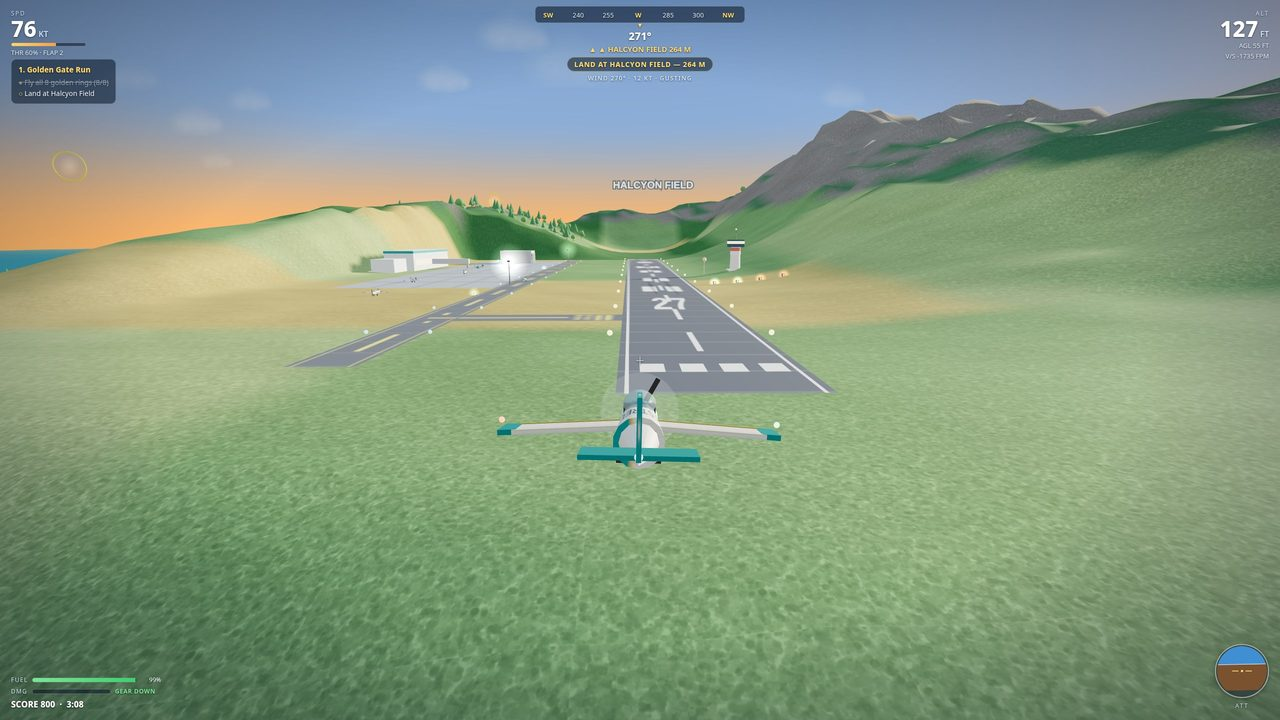
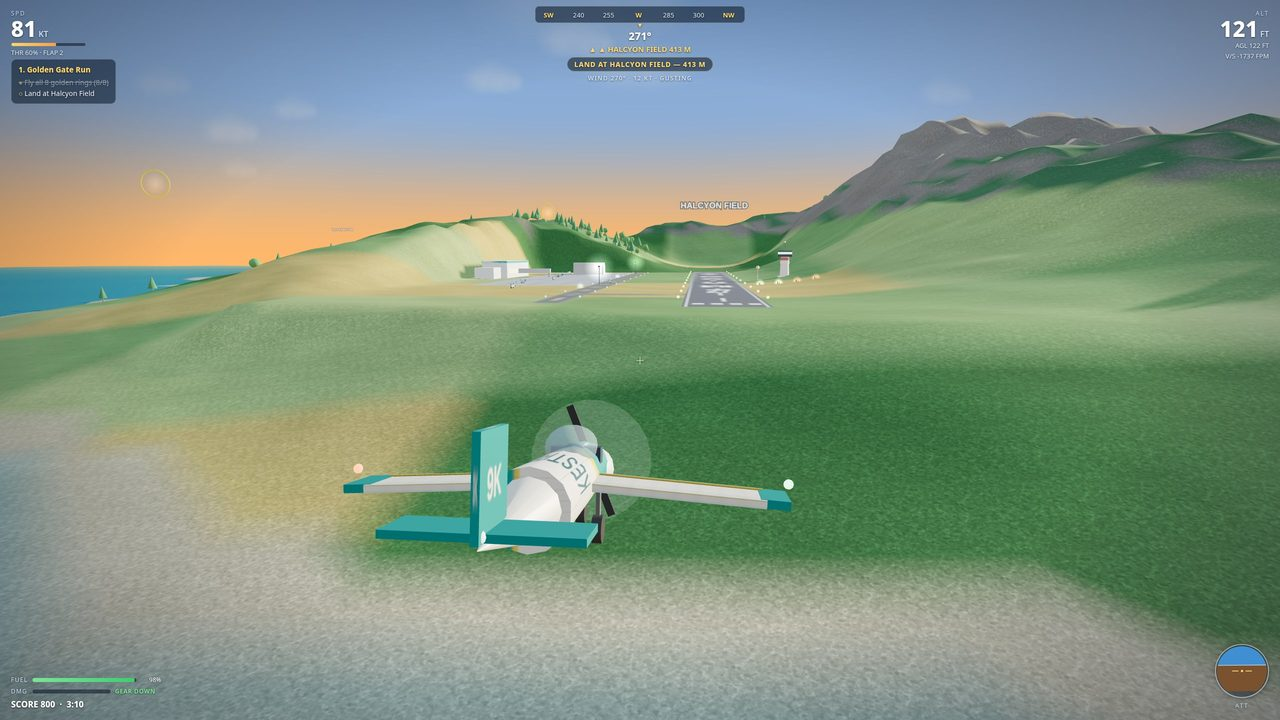
Fix v5: screenshot angles — plane reads big in every shot
- Cover: tight chase closer (17 -> 13.5 m) with more side offset (5 -> 8), look further ahead (+20 m, +2 m up) — the Kestrel reads ~30% of the frame in 3/4 view with the livery visible, less empty runway in the foreground, sun still in frame; freeze unchanged (SCORE 800, 8/8, 3:09)
- Cockpit: the in-cockpit camera showed no aircraft at all. Now a close chase from behind-above (11 m, FOV 58) in cockpit mode — nose, wings and KESTREL livery read at ~40% of the frame over the sea with ring 1 ahead, gauge strip + canopy vignette intact, prop blades still hidden + disc capped at 0.12 so the v2 glitch cannot return (0, 0/8, 0:04)
- Landing: staged further out (620 m east, 62 m up) and captured earlier (~480 m out, ~27 m AGL) with a dedicated close chase (9.5 m, FOV 52, side 2.5) — the plane goes from ~10% to ~37% of the frame with the runway, PAPI, terminal and tower still ahead. The v4 <220 m capture timed out because the Kestrel sinks onto the runway before 220 m, so the plane is made bigger with camera + FOV instead of a closer capture point (800, 8/8, 3:10)
- Complete: endcard overlay brightened (.26/.46 -> .12/.24) and the card docks to the left, so the landed Kestrel reads beside it instead of behind it; the mission checklist hides while the card is up (restored on next mission) so the two panels never overlap; landing/complete share the close chase, so the plane is big on the runway with the tower + terminal in frame (SCORE 1072, 3:17, Rings 8/8 — identical to v4)
[…]

diff --git a/game/js/game.js b/game/js/game.js
@@ -135,6 +135,7 @@
       $("endcard").classList.add("hidden");
       $("pause").classList.add("hidden");
       $("hud").classList.remove("hidden");
+      $("hud-mission").classList.remove("hidden");
       $("cockpit-frame").classList.add("hidden");
       audio.ensure();
     }
@@ -155,6 +156,10 @@
 
     function showEnd(title, detail, lines, score) {
       game.state = title.indexOf("CRASH") === 0 ? "crashed" : "complete";
+      // ANGLE FIX (v5): the end card docks to the left now, so the
+      // mission checklist (top-left) is hidden while the card is up —
+      // otherwise the two panels overlap. Restored in startMission.
+      $("hud-mission").classList.add("hidden");
       $("end-title").textContent = title;
       $("end-detail").textContent = detail;
       $("end-score").textContent = "SCORE " + score;
@@ -362,8 +367,8 @@
         game.autopilot = true;
         game.camMode = "chase";
         // snap the chase camera in behind the plane at once
-        camPos.set(f.x + 322, f.elev + 34.5, f.z + 14);
-        camLook.set(f.x + 290, f.elev + 29, f.z + 5);
+        camPos.set(f.x + 313, f.elev + 33, f.z - 2);
+        camLook.set(f.x + 280, f.elev + 32, f.z + 6);
       } else if (staging === "cockpit") {
         // Level cruise over open water east of ring 1, at the ring's own
         // altitude, heading straight at it: no dive, no bank, and only
@@ -384,10 +389,16 @@
         // All 8 rings banked on the way here (800 pts) after ~3:05 of
         // flying — the shot must read as the end of a real rally, not a
         // teleport with a zero score.
+        // ANGLE FIX (v5): start further out (620 m east, 62 m up) and
+        // capture earlier (~480 m out, ~27 m AGL) so the runway, PAPI
+        // and terminal still read ahead of the plane. The v4 attempt to
+        // capture closer (<220 m) timed out because the Kestrel sinks
+        // onto the runway before 220 m — so the plane is made bigger
+        // with a closer chase + narrower FOV instead (updateCamera).
         Missions.presetProgress(C, game.mission, 8, 185);
         markRingsPassed(8);
         game.mission.messageT = 0;
-        resetPlane({ x: f.x + 380, y: f.elev + 38, z: f.z + 12, heading: -Math.PI / 2 });
+        resetPlane({ x: f.x + 620, y: f.elev + 62, z: f.z + 12, heading: -Math.PI / 2 });
         s.onGround = false; s.airborne = true;
         s.vx = -34; s.vy = -1.5; s.vz = 0;
         s.throttle = 0.35;
@@ -429,22 +440,48 @@
       tmpF.set(Math.sin(s.heading) * Math.cos(s.pitch), Math.sin(s.pitch), -Math.cos(s.heading) * Math.cos(s.pitch));
       tmpU.set(0, 1, 0);
       if (game.camMode === "cockpit") {
-        tmpV.set(0, 1.25, -1.35).applyQuaternion(quat).add(planeObj.group.position);
-        camera.position.copy(tmpV);
-        tmpV.copy(tmpF).multiplyScalar(30).add(camera.position);
-        camera.lookAt(tmpV);
-        camera.fov = lerp(camera.fov, 66, ldt * 4);
+        if (game.staging === "cockpit") {
+          // ANGLE FIX (v5): the in-cockpit camera showed no aircraft at
+          // all — just a vista. Pull back to a close chase from
+          // behind-above so the nose, wings and livery read in frame,
+          // while the gauge strip + canopy vignette still sell the
+          // cockpit shot. Blades stay hidden and the prop disc capped
+          // (frame loop) so the v2 glitch cannot return. First pass at
+          // 8 m was too tight (plane ~55% of the frame, tail fin
+          // crowding the left edge) — 11 m puts it at ~a third, like
+          // the landing shot, with the sea and the ring ahead in view.
+          tmpV.set(2.0, 2.8, 11).applyQuaternion(quat).add(planeObj.group.position);
+          camera.position.copy(tmpV);
+          tmpV.copy(planeObj.group.position).addScaledVector(tmpF, 26);
+          tmpV.y -= 1.0;
+          camera.lookAt(tmpV);
+          camera.fov = lerp(camera.fov, 58, ldt * 4);
+        } else {
+          tmpV.set(0, 1.25, -1.35).applyQuaternion(quat).add(planeObj.group.position);
+          camera.position.copy(tmpV);
+          tmpV.copy(tmpF).multiplyScalar(30).add(camera.position);
+          camera.lookAt(tmpV);
+          camera.fov = lerp(camera.fov, 66, ldt * 4);
+        }
       } else {
         // chase: behind and above, roll damped, look offset for mouse look.
         // The cover staging keeps the camera glued and pulled back so the
         // plane reads big AND the ring it just threaded still frames it
         // (a tight chase loses the ring the moment the plane passes it).
         var tight = game.staging === "cover";
-        var back = tight ? 17 : 11 + s.speed * 0.04, up = tight ? 3.8 : 3.2 + s.speed * 0.008;
+        // ANGLE FIX (v5): landing + complete get a close chase of their
+        // own — the old 12 m chase left the plane ~10% of the frame over
+        // a sea of grass. Back 9.5 m + a 52 deg FOV puts the Kestrel at
+        // ~a third of the frame with the runway and the airport ahead.
+        // Cover moves closer too (17 -> 13.5 m) with more side offset so
+        // the 3/4 view shows the nose and livery, not just the tail.
+        var landTight = game.staging === "landing" || game.staging === "complete";
+        var back = tight ? 13.5 : (landTight ? 9.5 : 11 + s.speed * 0.04),
+          up = tight ? 3.2 : (landTight ? 2.6 : 3.2 + s.speed * 0.008);
         // cover: sit slightly to the sun side so the plane reads in
         // three-quarter view instead of dead-astern, big in frame with
         // the runway, PAPI and terminal ahead of it
-        var side = tight ? 5 : 0;
+        var side = tight ? 8 : (landTight ? 2.5 : 0);
         var q2 = new THREE.Quaternion().setFromEuler(new THREE.Euler(s.pitch * 0.4, -s.heading, -s.roll * 0.45, "YXZ"));
         tmpV.set(side, up, back).applyQuaternion(q2).add(planeObj.group.position);
         var k = 1 - Math.exp(-ldt * (tight ? 22 : 8));
@@ -454,8 +491,13 @@
         // the autopilot pitches up for the next ring; normal chase looks
         // 14 m ahead down the flight path
         if (tight) {
-          tmpV.copy(planeObj.group.position).addScaledVector(tmpF, 16);
-          tmpV.y += 0.5;
+          tmpV.copy(planeObj.group.position).addScaledVector(tmpF, 20);
+          tmpV.y += 2.0;
+        } else if (landTight) {
+          // look further ahead and a touch higher so the runway and the
+          // airport fill the frame instead of the grass below the plane
+          tmpV.copy(planeObj.group.position).addScaledVector(tmpF, 18);
+          tmpV.y += 2.0;
         } else {
           tmpV.copy(planeObj.group.position).addScaledVector(tmpF, 14);
           tmpV.y += 1.2;
@@ -467,7 +509,7 @@
         var k2 = 1 - Math.exp(-ldt * 7);
         camLook.lerp(tmpV, k2);
         camera.lookAt(camLook);
-        var wantFov = 62 + clamp((s.speed - 30) / 50, 0, 1) * 16;
+        var wantFov = landTight ? 52 : 62 + clamp((s.speed - 30) / 50, 0, 1) * 16;
         camera.fov = lerp(camera.fov, wantFov, ldt * 3);
       }
       camera.updateProjectionMatrix();

diff --git a/game/css/style.css b/game/css/style.css
@@ -89,8 +89,11 @@ html, body { width: 100%; height: 100%; overflow: hidden; background: #0b1622;
 .overlay { position: absolute; inset: 0; z-index: 10; display: flex; align-items: center; justify-content: center;
   background: linear-gradient(rgba(6, 12, 22, .45), rgba(6, 12, 22, .72)); }
 /* the end card dims the scene far less than the menu: the runway and the
-   landscape behind a MISSION COMPLETE must stay bright and readable */
-#endcard { background: linear-gradient(rgba(6, 12, 22, .26), rgba(6, 12, 22, .46)); }
+   landscape behind a MISSION COMPLETE must stay bright and readable.
+   ANGLE FIX (v5): dimming halved again (.12/.24) and the card docks to
+   the left, so the landed Kestrel reads beside it instead of behind it */
+#endcard { background: linear-gradient(rgba(6, 12, 22, .12), rgba(6, 12, 22, .24));
+  justify-content: flex-start; padding-left: 48px; }
 .panel { background: rgba(8, 18, 32, .82); border: 1px solid rgba(255, 215, 106, .35); border-radius: 16px;
   padding: 30px 38px; max-width: 660px; width: min(92vw, 660px); text-align: center;
   box-shadow: 0 18px 60px rgba(0, 0, 0, .55); backdrop-filter: blur(4px); }
